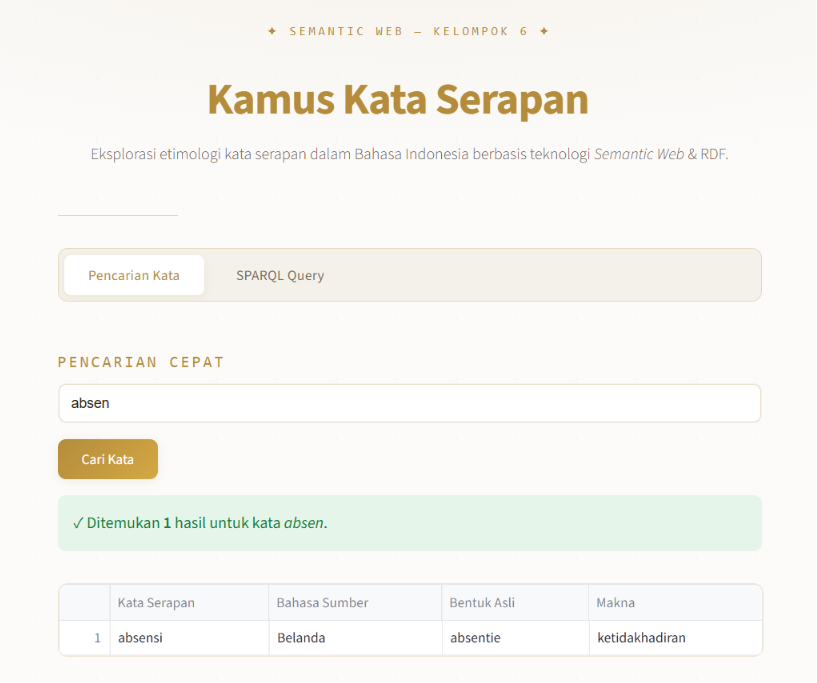
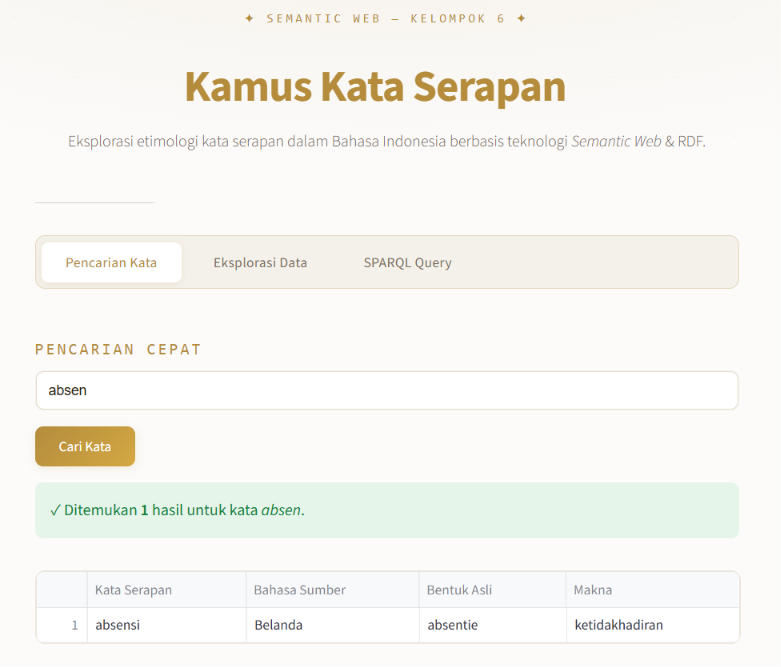
read me

diff --git a/README.md b/README.md
@@ -176,13 +176,13 @@ Fitur ini ditujukan untuk *developer* yang ingin mengekstrak data spesifik denga
 
 Tampilan bawaan ketika aplikasi pertama kali dibuka, berfokus pada kolom pencarian dengan desain *light mode*.
 
-![Tampilan Awal Aplikasi](docs/screenshots/01-tampilan-awal.png)
+![Tampilan Awal Aplikasi](docs/TampilanAwal.png)
 
 ### 2. Pencarian Kata — Hasil Ditemukan
 
 Contoh ketika mengeksekusi pencarian kata `"absen"` pada tab **Pencarian Kata**.
 
-![Hasil Pencarian Kata Absen](docs/screenshots/02-hasil-pencarian-absen.png)
+![Hasil Pencarian Kata Absen](docs/TampilanHasil1.png)
 
 | Kata Serapan | Bahasa Sumber | Bentuk Asli | Makna |
 |---|---|---|---|
@@ -192,7 +192,7 @@ Contoh ketika mengeksekusi pencarian kata `"absen"` pada tab **Pencarian Kata**.
 
 Contoh saat memilih menu visualisasi statistik. Aplikasi menampilkan *bar chart* di sebelah kiri dan tabel rekapitulasi di sebelah kanan.
 
-![Statistik Bahasa Sumber](docs/screenshots/03-statistik-bahasa-sumber.png)
+![Statistik Bahasa Sumber](docs/TampilanStatistik.png)
 
 | Bahasa Sumber | Jumlah Kata |
 |---|---|
@@ -204,13 +204,13 @@ Contoh saat memilih menu visualisasi statistik. Aplikasi menampilkan *bar chart*
 
 Contoh saat memilih filter bahasa `"Arab"` pada *dropdown*, lalu menampilkan daftar kata serapan yang berasal dari bahasa tersebut.
 
-![Filter Berdasarkan Bahasa](docs/screenshots/04-filter-bahasa-arab.png)
+![Filter Berdasarkan Bahasa](docs/TampilanFilter.png)
 
 ### 5. Eksekusi Manual — Tab SPARQL Query
 
 Tampilan *editor query* SPARQL dengan *template* default untuk menginspeksi struktur data.
 
-![Editor SPARQL Query](docs/screenshots/05-editor-sparql.png)
+![Editor SPARQL Query](docs/screenshots/05-editor-sparql.png)![Editor](docs/Kueri.png)
 
 ```sparql
 PREFIX etimologi: <http://etimologi.id/ontology#>
